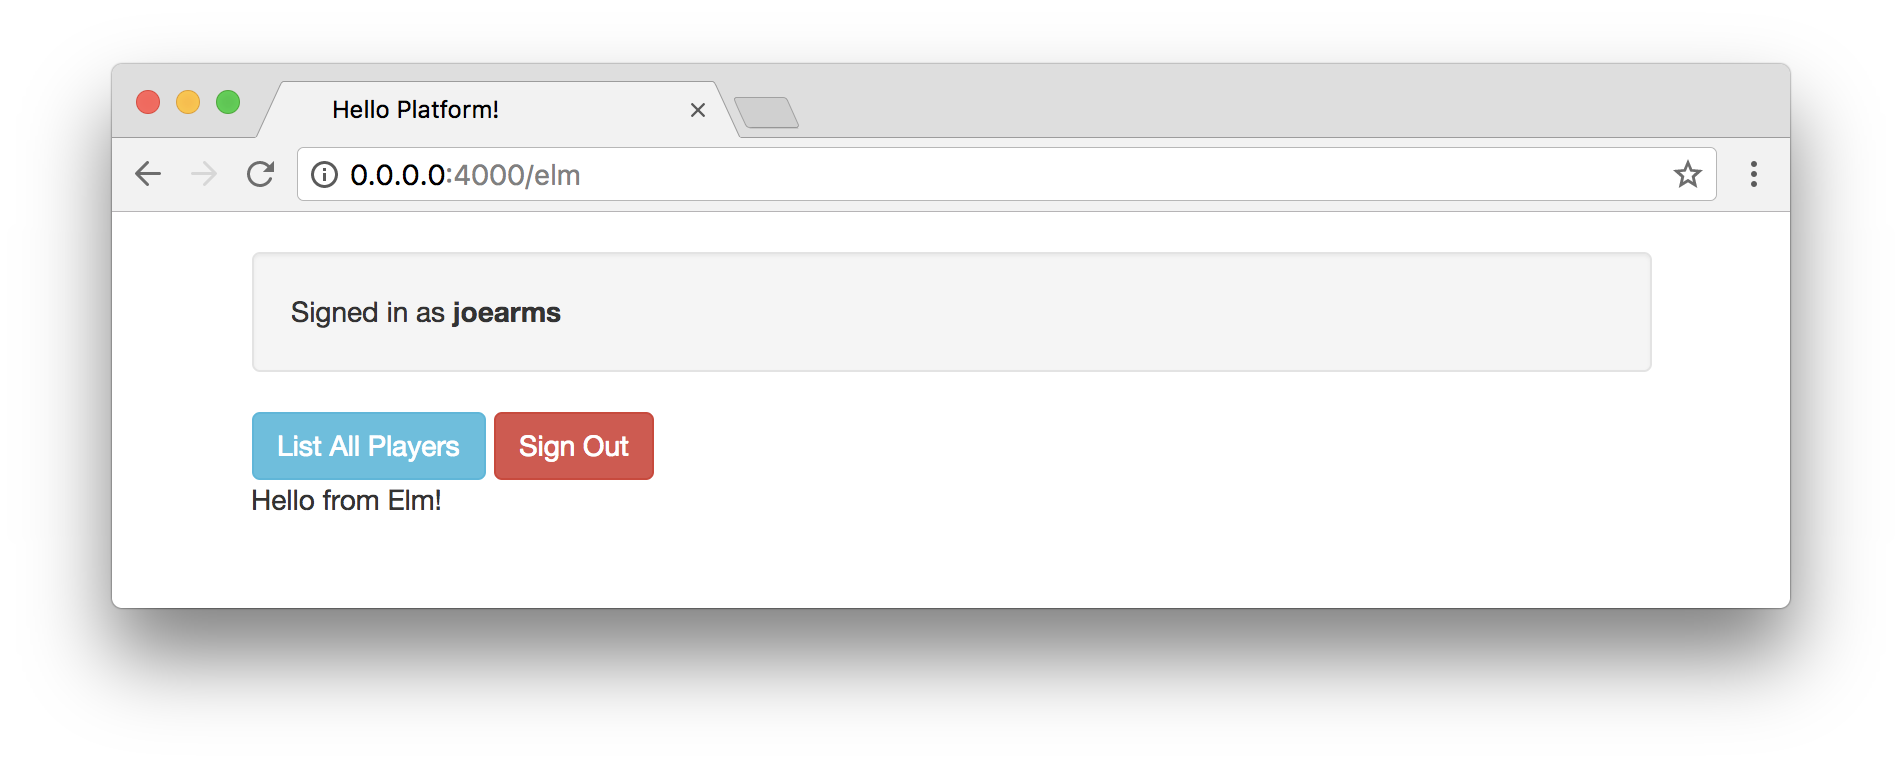
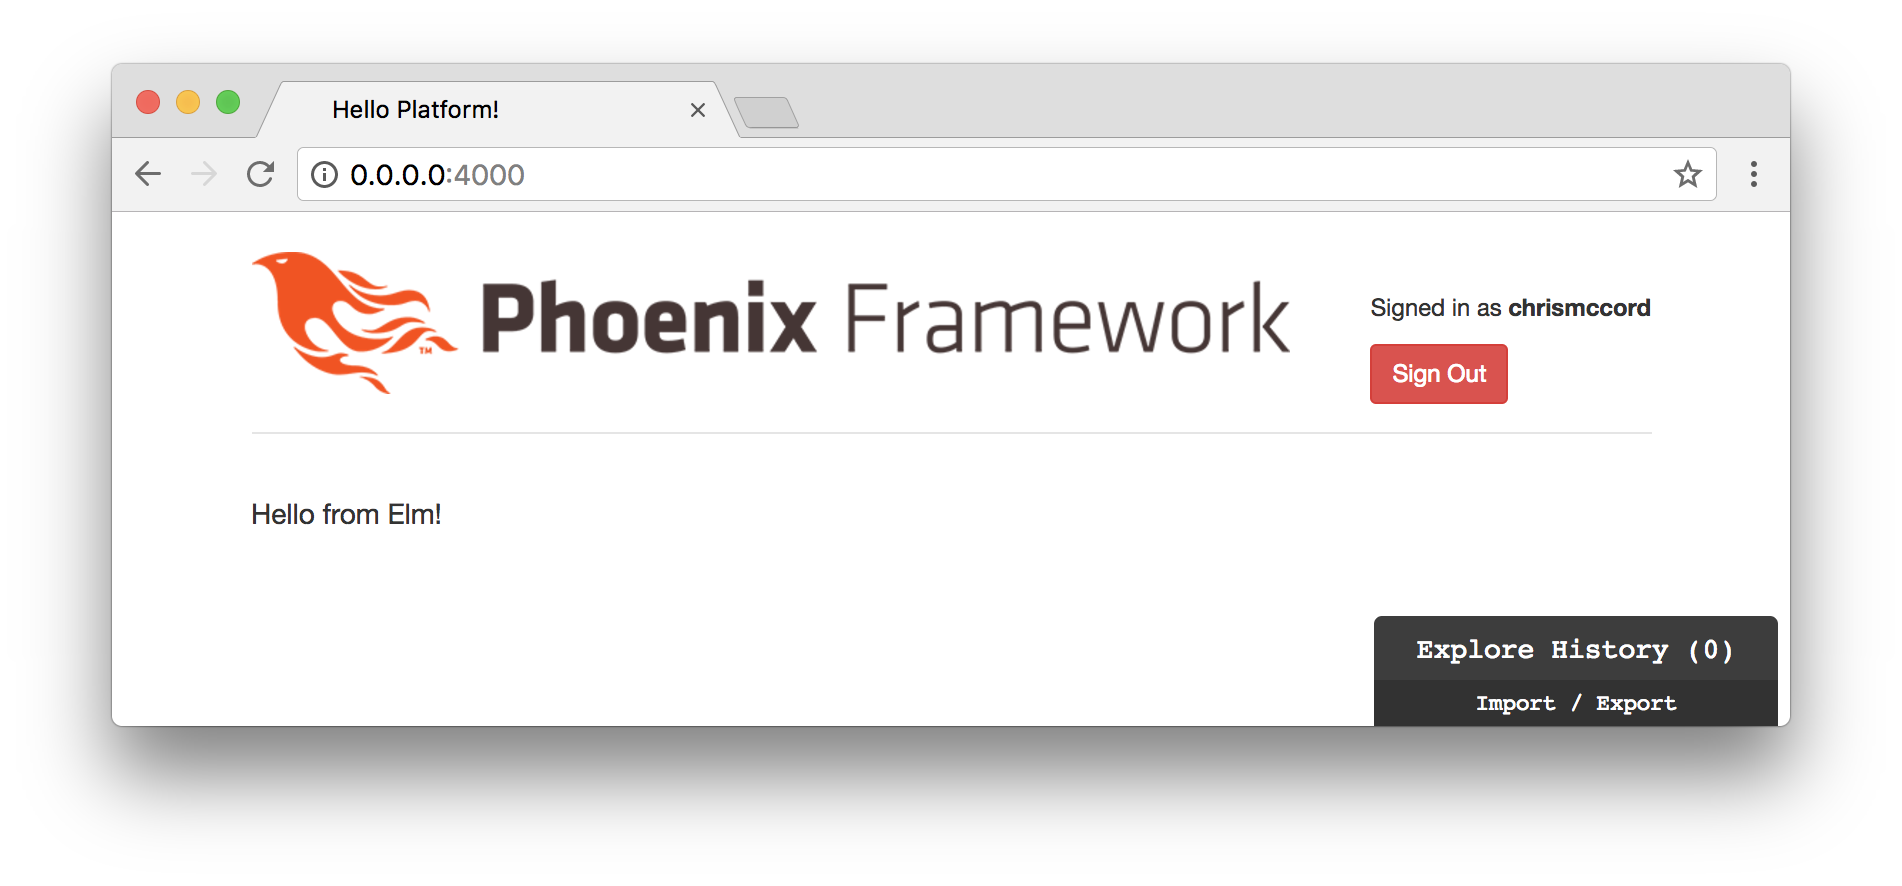
Finish up with updates to Elm Setup chapter

diff --git a/manuscript/elm_setup.md b/manuscript/elm_setup.md
@@ -79,6 +79,7 @@ code to the bottom:
 ```gitignore
 # Elm
 /assets/elm-stuff
+/assets/js/main.js
 ```
 
 Now, run the following command from inside the `assets` folder of our Phoenix
@@ -119,102 +120,23 @@ our front-end files with `package.json` for any Node libraries and
 
 ## Elm Folder
 
-We'll need a place to put our Elm code inside our Phoenix application structure.
-Inside the `lib/platform/web` folder, create a new folder called `elm`. This is
-where we'll install Elm packages and put all of our Elm source code. The Elm
-source code we write will be committed to GitHub, but we want our Phoenix
-application to compile it to JavaScript automatically and we won't actually have
-to work with those JavaScript output files directly.
+We'll need a place to put our Elm code inside our Phoenix application. So let's
+create a new folder called `elm` inside our `assets` folder. We'll use this
+folder to store all of our Elm source code.
 
-## brunch-config.js
+This allows us to collocate our Elm front-end code with the rest of our
+front-end code. It also means that we won't need to put all of our Elm files
+inside the `lib` directory, which is good because we don't want to make Phoenix
+scan all these files when it recompiles our Elixir code.
 
-Now that we've added Elm to our `package.json` file and created a folder for our
-Elm code, we'll want to configure the Brunch build tool as well. Open the
-`brunch-config.js` file, and replace it with the following (note that the
-default file contains _a lot_ of comments, but we're removing them here for
-brevity):
-
-```javascript
-exports.config = {
-  files: {
-    javascripts: { joinTo: "js/app.js" },
-    stylesheets: { joinTo: "css/app.css" },
-    templates: { joinTo: "js/app.js"}
-  },
-  conventions: { assets: /^(static)/ },
-  paths: {
-    watched: ["../lib/platform/web/elm", "static", "css", "js", "vendor"],
-    public: "../priv/static"
-  },
-  plugins: {
-    babel: { ignore: [/vendor/] },
-    elmBrunch: { elmFolder: "../lib/platform/web/elm", mainModules: ["Main.elm"], outputFolder: "../../../../assets/vendor" }
-  },
-  modules: { autoRequire: { "js/app.js": ["js/app"] } },
-  npm: { enabled: true }
-};
-```
-
-This file has been condensed quite a bit to keep it short, but the main things
-to note are the `watched` paths section, and the `elmBrunch` plugin. These
-configuration options are basically telling the Phoenix application where to
-look for our Elm source code, and where we'll output the results (in the
-`assets/vendor` folder).
-
-## Installing Elm Packages
-
-Inside our `lib/platform/web/elm` folder we're going to pull in the Elm
-packages we need. But we only want to commit our Elm source code to Git, so
-first let's update our `.gitignore` file to make sure we don't add everything
-to our repository.
-
-Add the following lines to the bottom of the `.gitignore` file in our `platform`
-project's root directory:
-
-```gitignore
-# Elm
-/lib/platform/web/elm/elm-stuff
-/assets/vendor/main.js
-```
-
-Now go to the `lib/platform/web/elm` folder from the command line and run the
-following command:
-
-```shell
-elm-package install
-```
-
-Enter the `Y` character to approve of the package plan, and we should see the
-following output:
-
-```shell
-$ elm-package install
-Some new packages are needed. Here is the upgrade plan.
-
-  Install:
-    elm-lang/core 5.1.1
-    elm-lang/html 2.0.0
-    elm-lang/virtual-dom 2.0.4
-
-Do you approve of this plan? [Y/n] Y
-Starting downloads...
-
-  ● elm-lang/html 2.0.0
-  ● elm-lang/core 5.1.1
-  ● elm-lang/virtual-dom 2.0.4
-
-Packages configured successfully!
-```
-
-So we have our `package.json` file in the `assets` folder to handle our
-JavaScript dependencies, and we also have our `elm-package.json` file in the
-`lib/platform/web/elm` folder to manage Elm packages.
+The Elm source code we write will be committed to our repository, but we want
+our Phoenix application to compile it to JavaScript automatically (we won't
+have to work with those JavaScript output files directly).
 
 ## Main.elm
 
-Now we can start writing Elm code inside our Phoenix application. Create a file
-called `Main.elm` inside the `lib/platform/web/elm` folder. And add the
-following content:
+Inside our new `assets/elm` folder, let's create a new file called `Main.elm`
+and add the following content:
 
 ```elm
 module Main exposing (..)
@@ -227,43 +149,97 @@ main =
     text "Hello from Elm!"
 ```
 
-Now let's start up our Phoenix server with `mix phx.server`, and we should see
-a message in the Terminal about how the `Main.elm` file was compiled into an
-`app.js` file that Phoenix can use:
+This is a simple Elm program that will print "Hello from Elm!" in the browser
+once we get everything wired together. The way it will work is that the Brunch
+build tool will watch for changes to our Elm source code, and then compile the
+results to a JavaScript file. So the changes we make to the
+`assets/elm/Main.elm` file will be compiled to `assets/js/main.js`. To get this
+up and running, we'll need to configure Brunch.
+
+## Brunch Configuration
+
+Inside the `assets` folder, open the `brunch-config.js` file and replace it
+with the code below (note that the default file contains _a lot_ of comments,
+but we're removing them here for brevity):
+
+```javascript
+exports.config = {
+  files: {
+    javascripts: { joinTo: "js/app.js" },
+    stylesheets: { joinTo: "css/app.css" },
+    templates: { joinTo: "js/app.js" }
+  },
+  conventions: { assets: /^(static)/ },
+  paths: {
+    watched: ["static", "css", "js", "vendor", "elm"],
+    public: "../priv/static"
+  },
+  plugins: {
+    babel: { ignore: [/vendor/] },
+    elmBrunch: {
+      mainModules: ["elm/Main.elm"],
+      makeParameters: ["--debug"],
+      outputFolder: "../assets/js"
+    }
+  },
+  modules: {
+    autoRequire: { "js/app.js": ["js/app"] }
+  },
+  npm: { enabled: true }
+};
+```
+
+This file has been condensed quite a bit to keep it short, but the main things
+to note are the `watched` paths section, and the `elmBrunch` plugin. These
+configuration options are basically telling the Phoenix application where to
+look for our Elm source code (`"elm/Main.elm"`), and where we'll output the
+results (`"../assets/js"`). We also add a `--debug` parameter that will allow
+us to use the Elm debugger while we develop our application.
+
+## Compiling with Phoenix
+
+We'll still need to take a few additional steps before we can render our Elm
+application in the browser, but at this point we should be able to get Phoenix
+to compile our Elm source code when we run the server.
+
+Let's start up our Phoenix server with `mix phx.server`, and we should see
+a message in the Terminal about how the `elm/Main.elm` file was compiled to the
+`../assets/js/main.js` file.
 
 ```shell
 $ mix phx.server
-[info] Running Platform.Web.Endpoint with Cowboy using http://0.0.0.0:4000
-07:33:05 - info: compiling
-07:33:06 - info: compiled 66 files into 2 files, copied 3 in 6.9 sec
-Elm compile: Main.elm, in ../lib/platform/web/elm, to ../../../../assets/vendor/main.js
-07:33:08 - info: compiled main.js and 78 cached files into app.js in 306 ms
+[info] Running PlatformWeb.Endpoint with Cowboy using http://0.0.0.0:4000
+16:02:47 - info: compiled 7 files into 2 files, copied 3 in 801 ms
+Elm compile: elm/Main.elm, to ../assets/js/main.js
 ```
 
 ## Displaying Our Elm Application
 
-The last step is to find a place to put our Elm application within Phoenix. In
-a previous chapter, we already created a `/elm` route that we can use. That page
-currently contains a few simple buttons, and we'll add our Elm content below.
-We'll use the same `index.html.eex` file we worked with previously in the
-`/lib/platform/web/templates/page` folder.
+Now that Brunch is automatically compiling our Elm code in `Main.elm` to
+JavaScript in `main.js`, we can find a place to display our front-end
+application within Phoenix.
 
-Below the existing code, let's add a `<div>` element where we can put our Elm
-application:
+We'll use the same `index.html.eex` page we worked with previously. Here's
+what our existing application looks like with a user signed in.
+
+![Existing Phoenix Application](images/elm_setup/existing_phoenix_application.png)
+
+Let's replace everything below the header with our new Elm front-end. To do
+this, we'll open the `lib/platform_web/templates/page/index.html.eex` and
+and replace everything with a single line:
 
 ```embedded_elixir
-<p class="well">Signed in as <strong><%= @current_user.username %></strong></p>
-<span><%= link "List All Players", to: player_path(@conn, :index), class: "btn btn-info" %></span>
-<span><%= link "Sign Out", to: player_session_path(@conn, :delete, @current_user), method: "delete", class: "btn btn-danger" %></span>
-
-<div class="elm-container"></div>
+<div id="elm-container"></div>
 ```
 
-We have a container to attach our Elm application. So let's open the
-`assets/js/app.js` file and add the following code at the very bottom:
+We can place our Elm application inside this container. Let's open the
+`assets/js/app.js` file and add the following code at the bottom:
 
 ```javascript
-const elmContainer = document.querySelector(".elm-container");
+// Elm
+import Elm from "./main"
+
+const elmContainer = document.querySelector("#elm-container");
 
 if (elmContainer) {
   const elmApplication = Elm.Main.embed(elmContainer);
@@ -273,20 +249,15 @@ if (elmContainer) {
 ## Working Elm application
 
 With our configuration finished, we now have the ability to write Elm code in
-our `lib/platform/web/elm` folder. That will automatically be compiled into
-JavaScript using our minimal Brunch configuration, and then the resulting Elm
-application will be inserted into our Phoenix application on our `/elm` page
-(`lib/platform/web/templates/page/index.html.eex`).
-
-Be sure to restart your Phoenix server if it was still running, and it should
-recompile all the code necessary to get our Elm application displayed on the
-screen.
-
-We should now be able to visit `http://0.0.0.0:4000/elm` and see the "Hello
-from Elm!" text coming from our `Main.elm` application in the
-`lib/platform/web/elm` folder.
+our Phoenix application! The code in our `Main.elm` file is being automatically
+compiled to JavaScript using our minimal Brunch configuration, and then the
+resulting Elm application is inserted into our Phoenix application.
 
 ![Working Elm Application Inside Phoenix](images/elm_setup/working_elm_application.png)
+
+Also note that we have our Elm debugger available to explore the history of
+changes, and this will be useful as we start tracking state changes in our
+application with the Elm Architecture.
 
 ## Live Reload
 
